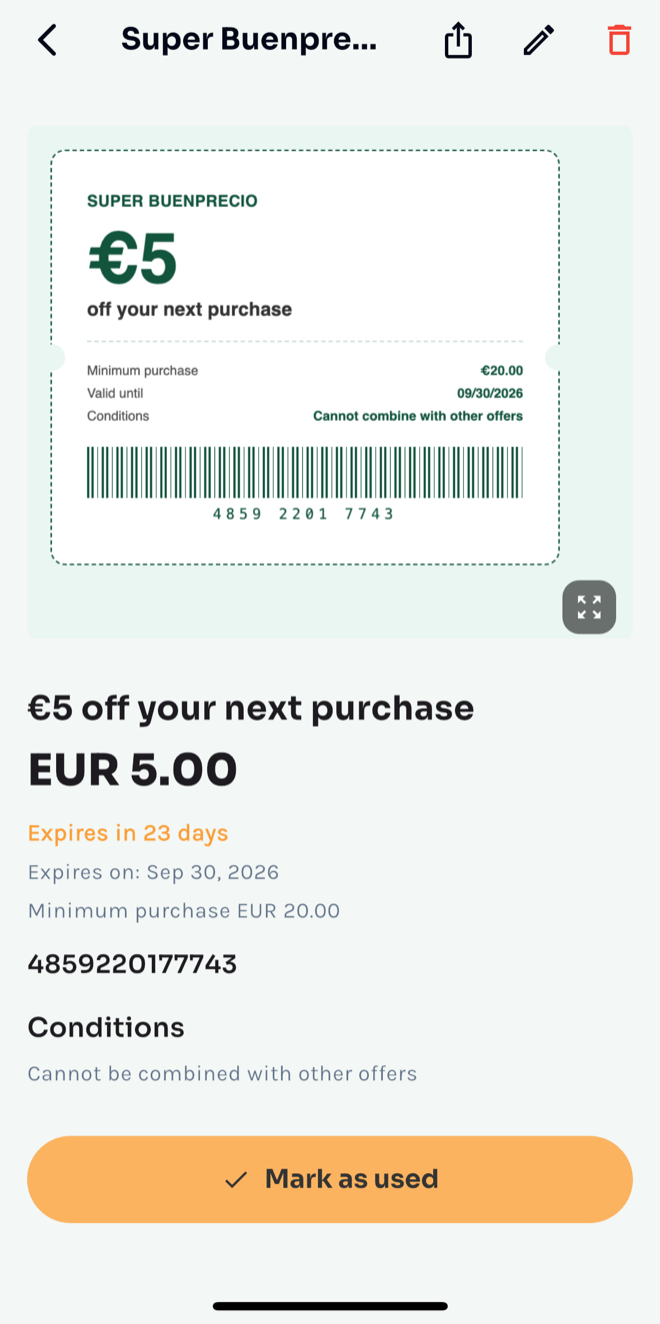
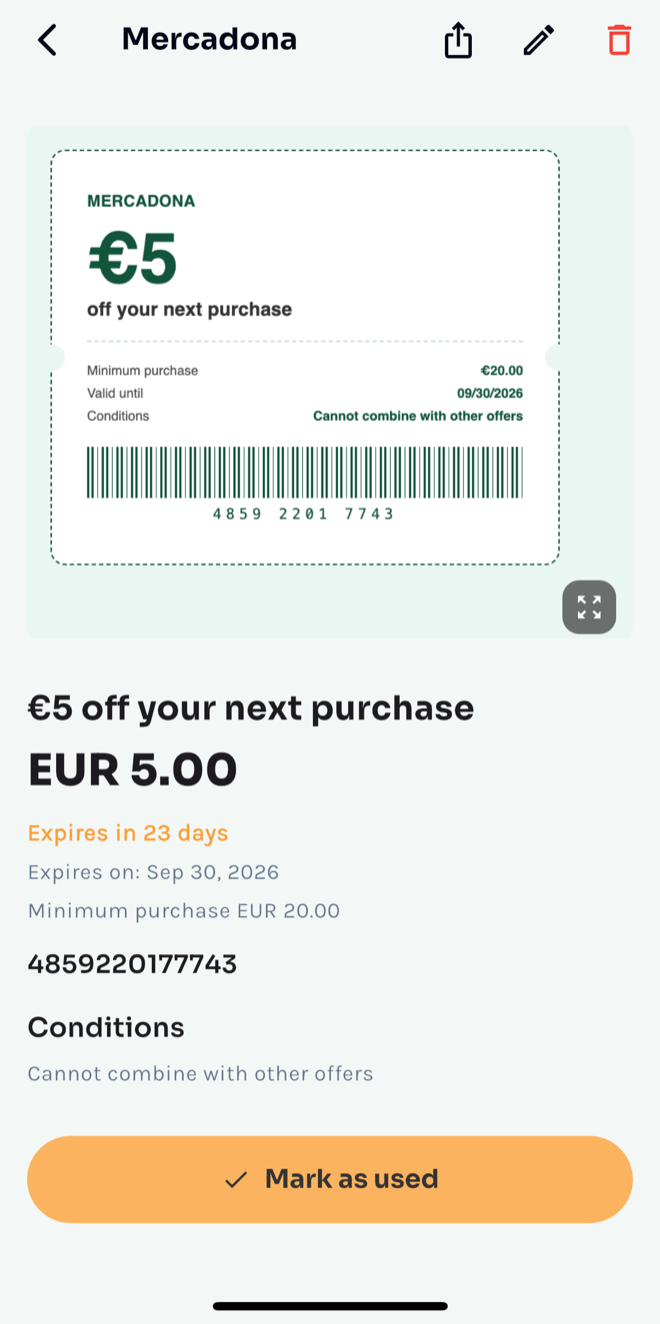
Update coupon screenshots and make the phone frame read as an iPhone
The frame was a plain rounded rectangle with a thick uniform bezel, which reads as a generic Android handset. It now has the iPhone silhouette: a 9px bezel with 52px corners, a titanium-ish rim gradient, the three left-hand buttons, and a Dynamic Island over the status bar. The coupon frames gained a status-bar strip in the screenshot's own background colour (sampled at #f3f7f5) so the island never covers the app's back button and title.

Both coupon screenshots replaced with the new Mercadona ones, same 660px width and declared dimensions as before.

Rendering the full Spanish page at once surfaced a nav bug: the Spanish labels are longer than the English ones, so at 940-1100px they wrapped onto a second line and collided with the wordmark. Nav links and buttons no longer wrap, and the mobile menu now takes over at 1100px instead of 940px, which is where the Spanish nav actually stops fitting.

diff --git a/site/styles.css b/site/styles.css
@@ -27,11 +27,12 @@
       .brand{display:flex;align-items:center;gap:10px;font-family:var(--f-head);font-size:21px;color:var(--ink)}
       .brand img{width:34px;height:34px}
       .brand b{font-weight:800}
-      .nav-links{display:flex;align-items:center;gap:26px;font-size:15px;font-weight:500}
+      .nav-links{display:flex;align-items:center;gap:22px;font-size:15px;font-weight:500;white-space:nowrap}
       .nav-links a:hover{color:var(--green-600)}
       .nav-links .is-new{color:var(--orange-ink);font-weight:700}
       .btn{display:inline-block;background:var(--green-900);color:#fff;font-weight:700;font-size:15px;
-           padding:13px 24px;border-radius:999px;border:0;cursor:pointer;font-family:var(--f-body)}
+           padding:13px 24px;border-radius:999px;border:0;cursor:pointer;font-family:var(--f-body);
+           white-space:nowrap}
       .btn:hover{background:var(--green-800)}
       .btn-orange{background:var(--orange);color:#3d2408}
       .btn-orange:hover{background:var(--orange-strong)}
@@ -47,7 +48,7 @@
       .menu-panel a{display:block;padding:13px 0;font-size:17px;font-weight:600;border-bottom:1px solid var(--line)}
       .menu-panel a:last-child{border-bottom:0}
       .menu-panel .btn{display:block;text-align:center;margin-top:16px}
-      @media(max-width:940px){
+      @media(max-width:1100px){
         .nav-links{display:none}
         .menu{display:block}
         /* The nav CTA would collide with the wordmark at this width; it lives
@@ -78,10 +79,20 @@
       @media(max-width:940px){.hero-grid{grid-template-columns:1fr;gap:44px}.hero{padding:48px 0 60px}}
 
       /* ---------- phone ---------- */
-      .phone{width:100%;max-width:352px;margin:0 auto;background:#0c231b;border-radius:44px;padding:11px;
-             box-shadow:0 30px 70px rgba(12,35,27,.28)}
-      .phone-in{background:#fff;border-radius:34px;overflow:hidden}
-      .status{display:flex;justify-content:space-between;align-items:center;padding:11px 22px 7px;
+      /* iPhone silhouette: thin uniform bezel, 52px corners, a Dynamic Island
+         over the status bar and the three left-hand buttons. Without the
+         island the frame reads as a generic Android handset. */
+      .phone{position:relative;width:100%;max-width:340px;margin:0 auto;padding:9px;border-radius:52px;
+             background:linear-gradient(155deg,#42544d,#16241f 20%,#0c231b 62%,#33443d);
+             box-shadow:0 30px 70px rgba(12,35,27,.30),inset 0 0 0 1px rgba(255,255,255,.09)}
+      .phone-in{position:relative;background:#fff;border-radius:44px;overflow:hidden}
+      .phone::after{content:"";position:absolute;z-index:3;top:20px;left:50%;transform:translateX(-50%);
+                    width:31%;height:26px;border-radius:999px;background:#07120e}
+      .phone::before{content:"";position:absolute;left:-2px;top:104px;width:3px;height:24px;border-radius:3px;
+                     background:#2b3c35;box-shadow:0 38px 0 #2b3c35,0 78px 0 #2b3c35}
+      /* Status-bar strip so the island never covers the screenshot's own UI. */
+      .appshot-bar{height:46px;background:#f3f7f5}
+      .status{display:flex;justify-content:space-between;align-items:center;height:46px;padding:0 22px;
               font-size:12px;font-weight:700;color:#6d7c76}
       .batt{background:#2f9e6f;color:#fff;border-radius:4px;padding:1px 5px;font-size:10px}
       .p-head{background:var(--green-800);color:#dcece4;padding:16px 20px 30px}
@@ -263,7 +274,7 @@ article.prose code{background:var(--green-50);padding:2px 6px;border-radius:5px;
 
 /* Language switcher. Points at the counterpart page, not the other homepage,
    so switching language never loses your place. */
-.langswitch{display:inline-flex;align-items:center;gap:7px;border:1px solid var(--line);
+.langswitch{white-space:nowrap;display:inline-flex;align-items:center;gap:7px;border:1px solid var(--line);
             border-radius:999px;padding:7px 15px;font-size:14px;font-weight:700;
             color:var(--green-600);background:#fff;line-height:1}
 .langswitch::before{content:"";width:14px;height:14px;flex:none;border-radius:50%;

diff --git a/site/pages/home.es.html b/site/pages/home.es.html
@@ -148,6 +148,7 @@
           </div>
           <div class="phone">
             <div class="phone-in">
+              <div class="appshot-bar"></div>
               <img class="appshot" src="/app/coupon-es.png" width="660" height="1324" loading="lazy"
                    alt="La pantalla de cupones de TicketBrain: un vale de 5 € de Super Buenprecio con su código de barras, compra mínima de 20 €, fecha de caducidad y el botón Marcar como usado.">
             </div>

diff --git a/site/pages/home.en.html b/site/pages/home.en.html
@@ -148,6 +148,7 @@
           </div>
           <div class="phone">
             <div class="phone-in">
+              <div class="appshot-bar"></div>
               <img class="appshot" src="/app/coupon-en.png" width="660" height="1324" loading="lazy"
                    alt="The TicketBrain coupon screen: a €5 voucher for Super Buenprecio with its barcode, a €20 minimum purchase, an expiry date and a Mark as used button.">
             </div>
